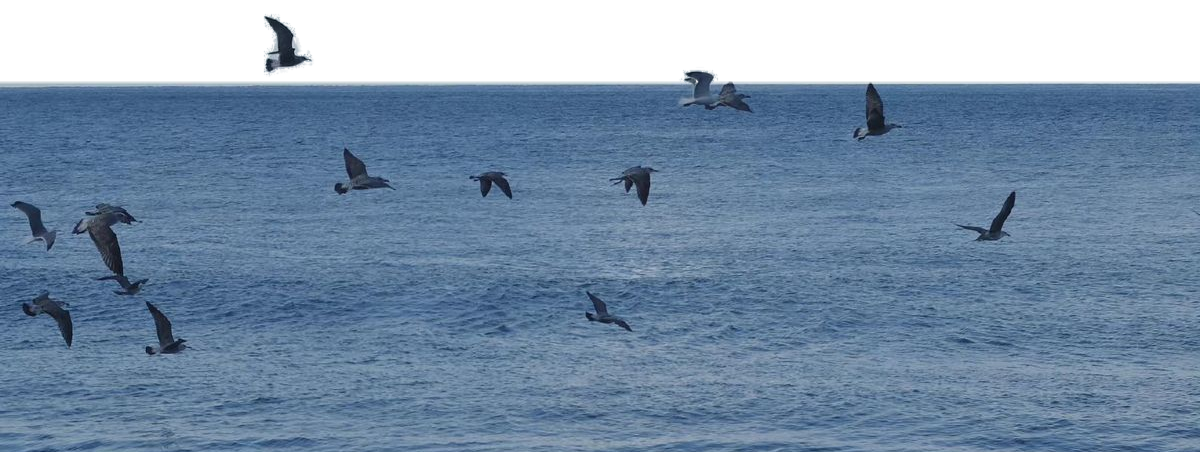
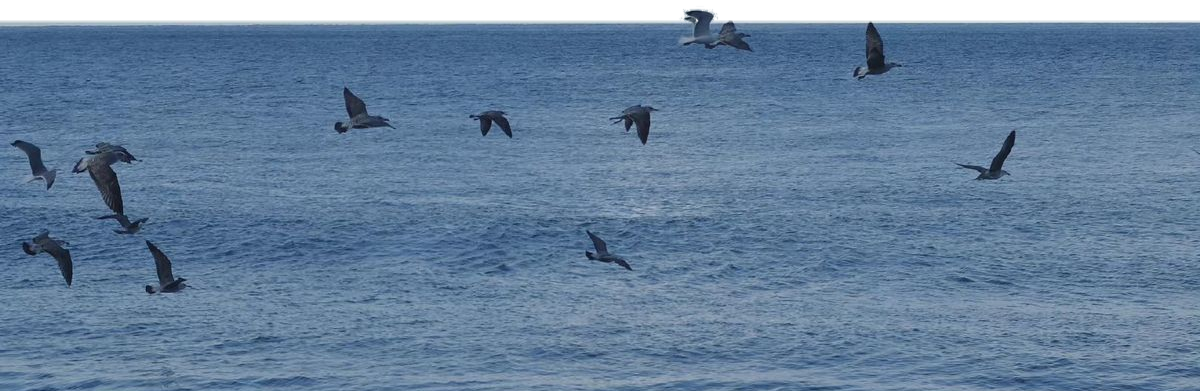
Sea birds photo: remove lone sky bird

diff --git a/index.html b/index.html
@@ -15,7 +15,7 @@
     <article class="content post home-bio">
       <p class="now-close">hi, my name is muhib, I am 19 and live between toronto and waterloo</p>
       <p class="now-close">in a previous life, i was homeschooled, moved around a lot, built computers, clothing brands, &amp; social media &amp; automation agencies, I love meeting new people, pushing myself, coffee, and a good sparring sesh</p>
-      <img class="home-photo home-photo-free" src="/photos/sea-birds.png" width="1200" height="452" alt="birds flying low over the sea" loading="lazy" decoding="async" />
+      <img class="home-photo home-photo-free" src="/photos/sea-birds.png" width="1200" height="391" alt="birds flying low over the sea" loading="lazy" decoding="async" />
       <p class="now-close">right now, i am at the <a href="https://uwaterloo.ca" target="_blank" rel="noopener"><span class="uw-highlight">university of waterloo<img class="inline-logo no-square" src="/uwaterloo-logo.png" alt="" /></span></a>, making third spaces with <span style="white-space:nowrap"><a href="https://pillars.network" target="_blank" rel="noopener"><strong>pillars</strong><img class="inline-logo" src="/pillars-logo.png" alt="" /></a>;</span> previously i was an applied ai engineer at <a class="zown-peek" href="https://zown.ca" target="_blank" rel="noopener"><strong>zown</strong><img class="inline-logo" src="/zown-logo.png" alt="" /></a></p>
       <p class="now-close">success to me isn't a number, it's a life lived that changes life for others.</p>
       <a class="commit-chart-link" href="https://github.com/muhibwqr" target="_blank" rel="noopener" aria-label="my github commit history">
